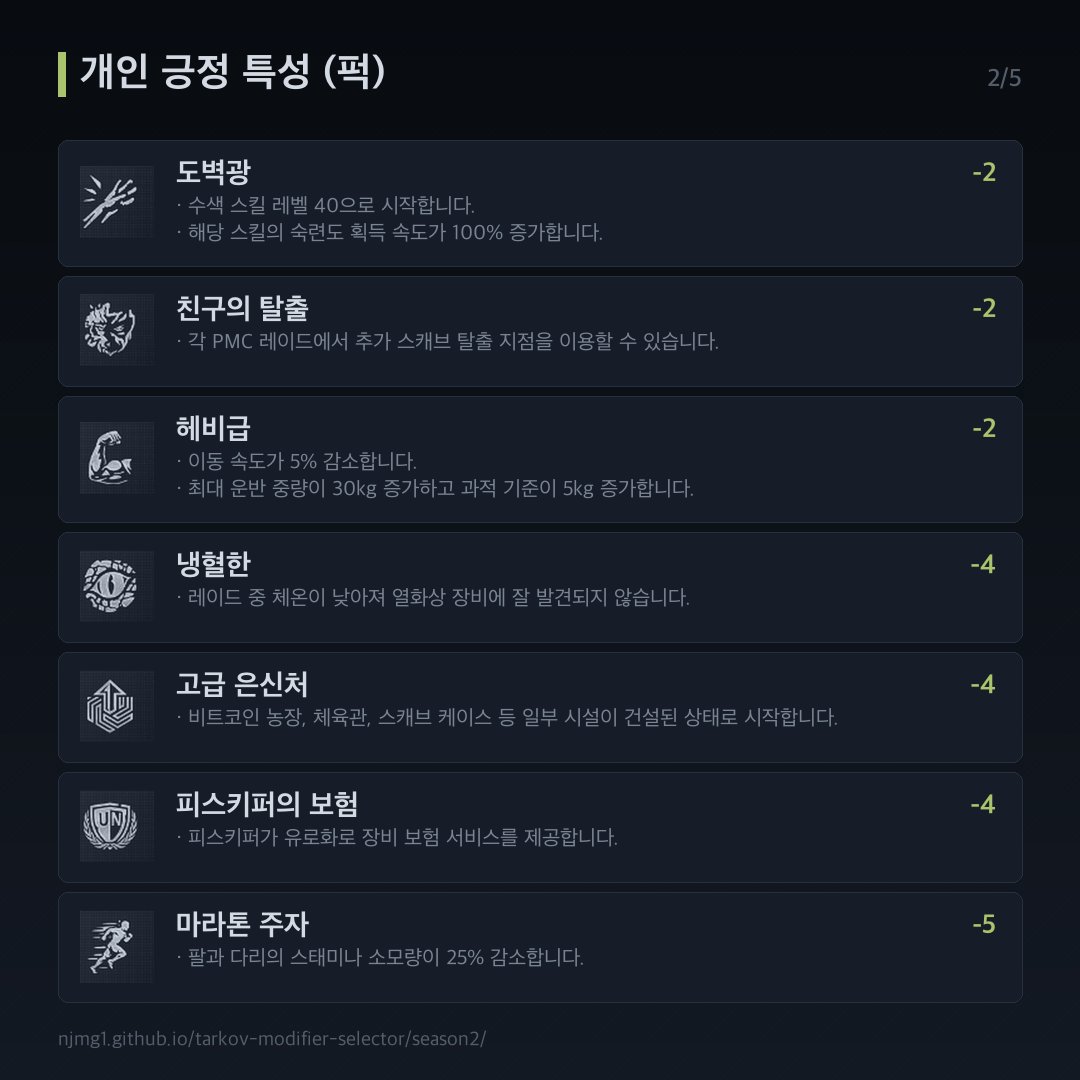
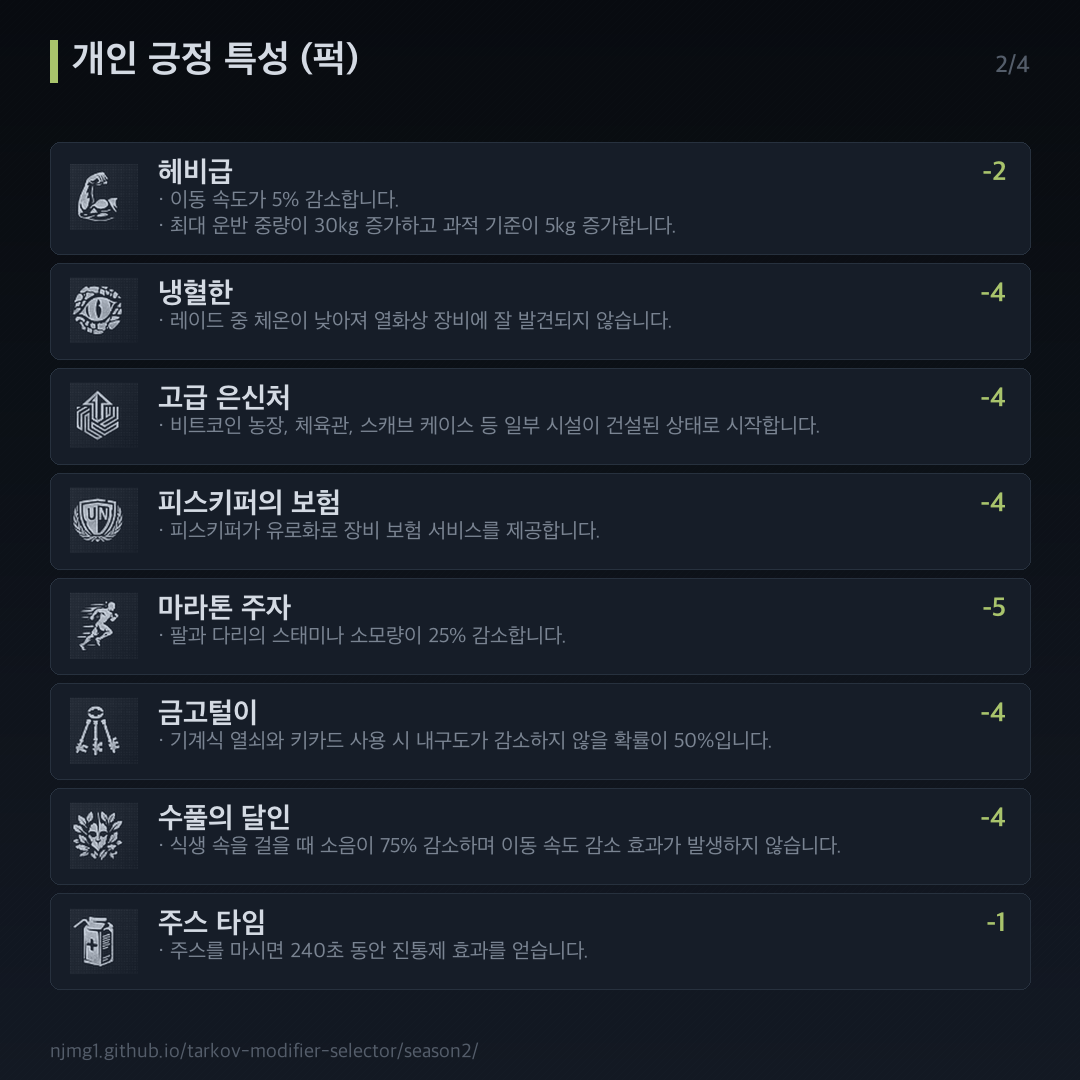
슬라이드를 10장으로 맞추고 장별 카드 수를 균등하게 조정
유튜브 커뮤니티가 이미지를 10장까지만 받아서, 여백과 카드 내부 패딩을 줄여
장당 8개까지 담도록 했습니다. 분할도 greedy 대신 균등 분할로 바꿨습니다 —
greedy 로는 마지막 장에 카드가 하나만 남았습니다.

표지1 + 공통1 + 긍정4(8·8·8·7) + 부정4(7·6·6·6) = 10장.

Claude-Session: https://claude.ai/code/session_01Qc2exmx7TsoqoKQfoZn9zh

diff --git a/docs/season2/build_slides.py b/docs/season2/build_slides.py
@@ -24,10 +24,10 @@ UN_HI = (90, 163, 220)
 POS = (169, 196, 108)
 NEG = (217, 139, 129)
 
-MARGIN = 58
-CARD_H = 110
-GAP = 10
-FOOT_Y = 1028
+MARGIN = 50
+CARD_H = 96
+GAP = 9
+FOOT_Y = 1040
 
 
 def f(size, idx=REG):
@@ -73,27 +73,27 @@ def wrap(d, text, font, width):
 
 
 def header(im, d, title, accent, page=None, sub=None):
-    y = 52
-    d.rectangle((MARGIN, y, MARGIN + 7, y + 44), fill=accent)
-    d.text((MARGIN + 22, y - 2), title, font=f(40, BOLD), fill=TEXT)
+    y = 40
+    d.rectangle((MARGIN, y, MARGIN + 7, y + 42), fill=accent)
+    d.text((MARGIN + 22, y - 3), title, font=f(38, BOLD), fill=TEXT)
     if page:
-        pf = f(25, SEMI)
-        d.text((S - MARGIN - d.textlength(page, font=pf), y + 12), page,
+        pf = f(24, SEMI)
+        d.text((S - MARGIN - d.textlength(page, font=pf), y + 11), page,
                font=pf, fill=FAINT)
     if sub:
-        d.text((MARGIN + 22, y + 52), sub, font=f(22), fill=DIM)
-    return y + (86 if not sub else 116)
+        d.text((MARGIN + 22, y + 50), sub, font=f(22), fill=DIM)
+    return y + (75 if not sub else 105)
 
 
 def desc_lines(d, mod, w):
     out = []
     for ln in mod["ko"]:
-        out += wrap(d, "· " + ln, f(21), w - 118 - 96)
+        out += wrap(d, "· " + ln, f(21), w - 108 - 90)
     return out
 
 
 def card_h(d, mod, w):
-    return max(CARD_H, 54 + len(desc_lines(d, mod, w)) * 27 + 18)
+    return max(CARD_H, 46 + len(desc_lines(d, mod, w)) * 26 + 14)
 
 
 def card(im, d, x, y, w, mod, icons):
@@ -102,26 +102,26 @@ def card(im, d, x, y, w, mod, icons):
 
     ic = icons.get(mod["id"])
     if ic:
-        box = 74
+        box = 68
         ic2 = ic.resize((box, box), Image.LANCZOS)
         tint = Image.new("RGB", (box, box), (205, 213, 224))
-        im.paste(tint, (x + 22, y + (h - box) // 2), ic2)
+        im.paste(tint, (x + 20, y + (h - box) // 2), ic2)
 
-    tx = x + 118
+    tx = x + 108
     val = mod.get("value")
     name = mod["koName"] + (" ◆" if mod.get("koGuess") else "")
     nf = f(29, BOLD)
-    d.text((tx, y + 16), name, font=nf, fill=TEXT)
+    d.text((tx, y + 13), name, font=nf, fill=TEXT)
     if val is not None:
         col = NEG if val > 0 else POS
         vf = f(27, BOLD)
         label = f"+{val}" if val > 0 else f"{val}"
-        d.text((x + w - 26 - d.textlength(label, font=vf), y + 17), label,
+        d.text((x + w - 24 - d.textlength(label, font=vf), y + 14), label,
                font=vf, fill=col)
 
     df = f(21)
     for i, ln in enumerate(desc_lines(d, mod, w)):
-        d.text((tx, y + 54 + i * 27), ln, font=df, fill=DIM)
+        d.text((tx, y + 46 + i * 26), ln, font=df, fill=DIM)
     return h
 
 
@@ -165,18 +165,23 @@ def main():
                        "항상 적용 · 포인트 비용 없음"))
 
     probe = ImageDraw.Draw(Image.new("RGB", (8, 8)))
-    CAP = FOOT_Y - 24 - 138          # header bottom for a paged slide
+    CAP = FOOT_Y - 22 - 115          # header bottom for a paged slide
+
+    def fits(group):
+        w = S - MARGIN * 2
+        return sum(card_h(probe, m, w) + GAP for m in group) - GAP <= CAP
 
     def paginate(rows):
-        pages, cur, h = [], [], 0
-        for m in rows:
-            ch = card_h(probe, m, S - MARGIN * 2) + GAP
-            if cur and h + ch - GAP > CAP:
-                pages.append(cur); cur, h = [], 0
-            cur.append(m); h += ch
-        if cur:
-            pages.append(cur)
-        return pages
+        """Spread the rows evenly over the fewest pages that still fit — a
+        greedy fill leaves a last page holding one card."""
+        for n in range(1, len(rows) + 1):
+            base, extra, out, i = divmod(len(rows), n)[0], len(rows) % n, [], 0
+            for k in range(n):
+                size = base + (1 if k < extra else 0)
+                out.append(rows[i:i + size]); i += size
+            if all(fits(g) for g in out):
+                return out
+        raise SystemExit("한 장에 담기지 않는 카드가 있습니다")
 
     pos = paginate(by("positive"))
     for i, g in enumerate(pos):
